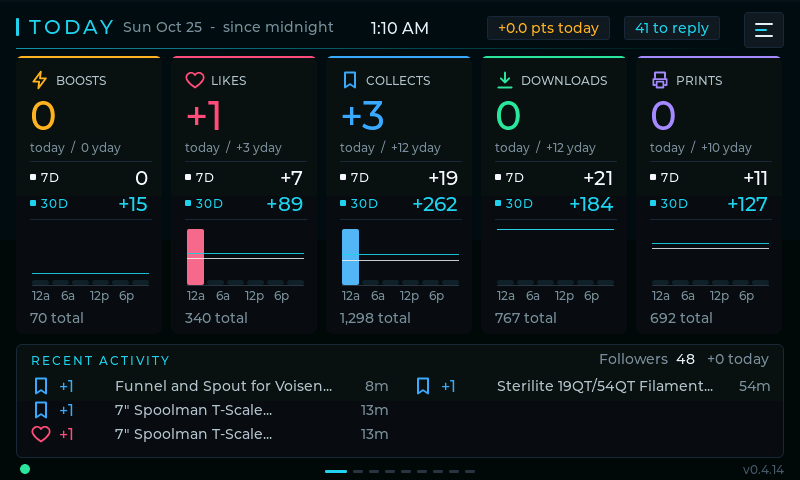
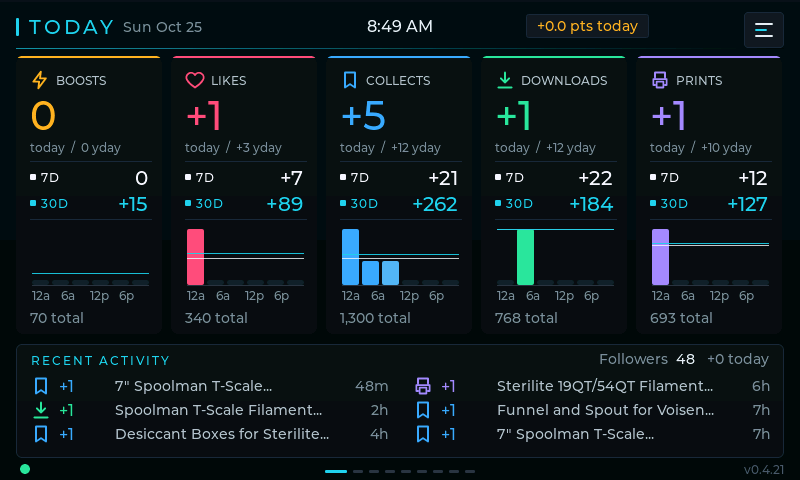
Color panel 0.4.21: simpler Today header, complete screenshots
- Today header: just the date on the left (when the day began is on the
  Status page), the clock centred, and the points chip centred between
  the clock and the hamburger, all on the title's centre line. The
  replies chip is gone; unanswered comments are on Creator > Reply.
- /screenshot.png waits for the socket to drain instead of stopping on
  the first full send buffer, so images are no longer cut short.

diff --git a/firmware-color/src/ui.cpp b/firmware-color/src/ui.cpp
@@ -478,8 +478,8 @@ struct Tile {
 };
 static Tile tiles[NSTAT];
 static Header todayHdr;
-static lv_obj_t *ptsChip, *replyChip, *syncDot, *syncLbl, *clockLbl;
-static void openCreatorReply(lv_event_t*);  // Creator page, Reply view
+static lv_obj_t *ptsChip, *syncDot, *syncLbl, *clockLbl;
+static bool ptsWant = false;
 static int TILE_W, TILE_STEP, BAR_BOTTOM, BAR_MAX, BAR_W, BAR_GAP, BAR_X;
 
 // On tall panels the chart stays short and the room under the tiles is a
@@ -501,16 +501,12 @@ static void syncDotCb(lv_event_t*) { openStatus(true); }
 static void buildToday() {
   lv_obj_t* s = screens[SC_TODAY] = newScreen();
   todayHdr = header(s, "TODAY", "waiting for poller");
-  ptsChip = label(todayHdr.right, F14, C_WARN, 0, 0, "");
+  // Placed by layoutTodayChips(), not in the header row.
+  ptsChip = label(s, F14, C_WARN, 0, 0, "");
   chipStyle(ptsChip, C_CHIP, C_WARN);
   // Tap: the Points page, sliding like a swipe. 48 px tall target.
   tappable(ptsChip, [](lv_event_t*) { goScreen(SC_POINTS, SC_POINTS > cur ? 1 : -1); }, 0);
   lv_obj_set_ext_click_area(ptsChip, max(6, (48 - lineH(F14) - 6) / 2));
-  // Unanswered comments (creator stats); tap for the list.
-  replyChip = label(todayHdr.right, F14, C_ACCENT, 0, 0, "");
-  chipStyle(replyChip, C_CHIP, C_ACCENT);
-  tappable(replyChip, openCreatorReply, 0);
-  show(replyChip, false);
   // Sync state is just the dot (green ok / amber cookie / red error), in the
   // footer at the bottom left on every page; tapping it opens Status. The text
   // label is kept hidden for the knob-free layout code.
@@ -526,10 +522,13 @@ static void buildToday() {
   lv_obj_add_event_cb(sync, syncDotCb, LV_EVENT_CLICKED, nullptr);
 #endif
   // Clock centred on the full width, independent of the left and right items.
+  // Same centre line as the title (the header's right-hand row is empty
+  // now; the chips are placed by layoutTodayChips()).
   clockLbl = label(s, F16, C_TXT, 0, 0, "--:--");
   lv_obj_update_layout(s);
-  lv_obj_align(clockLbl, LV_ALIGN_TOP_MID, 0,
-               lv_obj_get_y(todayHdr.right) + (lv_obj_get_height(todayHdr.right) - lineH(F16)) / 2);
+  lv_area_t ttl;
+  lv_obj_get_coords(todayHdr.title, &ttl);
+  lv_obj_align(clockLbl, LV_ALIGN_TOP_MID, 0, (ttl.y1 + ttl.y2) / 2 - lineH(F16) / 2);
   // Keep the subtitle left of the clock ("waiting for poller - host" is long).
   const int clockHalf = lv_txt_get_width("12:00 PM", 8, F16, 0, LV_TEXT_FLAG_NONE) / 2 + 14;
   lv_obj_update_layout(s);
@@ -711,6 +710,24 @@ static void refreshActivity() {
   show(actEmpty, shown == 0);
 }
 
+// Today header: date left, clock centred, hamburger right; the points chip
+// sits centred in the gap between the clock and the hamburger, measured from
+// the real widths, on the title's centre line. If it doesn't fit, it hides.
+static void layoutTodayChips() {
+  if (!clockLbl) return;
+  const int m = COMPACT ? 4 : 8;
+  show(ptsChip, true);
+  lv_obj_update_layout(screens[SC_TODAY]);
+  lv_area_t clk, ttl;
+  lv_obj_get_coords(clockLbl, &clk);
+  lv_obj_get_coords(todayHdr.title, &ttl);
+  const int cy = (ttl.y1 + ttl.y2) / 2;
+  const int x1 = clk.x2 + 1, x2 = W - PAD - HB_W - 1, w = lv_obj_get_width(ptsChip);
+  bool fits = ptsWant && w + 2 * m <= x2 - x1;
+  show(ptsChip, fits);
+  if (fits) lv_obj_set_pos(ptsChip, (x1 + x2 - w) / 2, cy - lv_obj_get_height(ptsChip) / 2);
+}
+
 static void refreshToday() {
   char a[32], b[48];
   int hourNow = -1;
@@ -789,10 +806,8 @@ static void refreshToday() {
   }
   snprintf(a, sizeof(a), COMPACT ? "%+.1f pts" : "%+.1f pts today", lag ? 0.0f : st.todayPoints);
   lv_label_set_text(ptsChip, a);
-  show(ptsChip, st.valid && st.cookieAge >= 0);
-  snprintf(a, sizeof(a), COMPACT ? "%d to reply" : "%d to reply", st.creator.unans);
-  lv_label_set_text(replyChip, a);
-  show(replyChip, st.valid && st.creator.has && st.creator.unans > 0);
+  ptsWant = st.valid && st.cookieAge >= 0;
+  layoutTodayChips();
   refreshActivity();
 }
 static void setTextIfChanged(lv_obj_t* l, const char* txt) {
@@ -809,26 +824,23 @@ static void refreshTodayHeader() {
     setTextIfChanged(todayHdr.sub, "Wi-Fi setup: join " BOARD_AP);
   } else if (!st.valid) {
     snprintf(a, sizeof(a), "waiting for poller  -  %s.local", g_net.host[0] ? g_net.host : "offline");
-    // No Recent activity card on shorter panels: followers go in the subtitle.
-    if (!TALL && st.fol.has) {
-      size_t o = strlen(a);
-      snprintf(a + o, sizeof(a) - o, "  -  %d followers (%+d)", st.fol.total, st.fol.today);
-    }
     setTextIfChanged(todayHdr.sub, a);
   } else {
     time_t lt = toLocal(n ? n : st.t);
     struct tm tmv;
     gmtime_r(&lt, &tmv);
     static const char* const WD[] = {"Sun", "Mon", "Tue", "Wed", "Thu", "Fri", "Sat"};
-    if (COMPACT) {
-      snprintf(a, sizeof(a), "%s %s %d", WD[tmv.tm_wday], MONTHS[tmv.tm_mon], tmv.tm_mday);
-    } else if (st.midnight || payloadLagDays()) {
-      snprintf(a, sizeof(a), "%s %s %d  -  since midnight", WD[tmv.tm_wday], MONTHS[tmv.tm_mon], tmv.tm_mday);
-    } else {
-      fmtHM(b, sizeof(b), st.since);
-      snprintf(a, sizeof(a), "%s %s %d  -  since %s", WD[tmv.tm_wday], MONTHS[tmv.tm_mon], tmv.tm_mday, b);
-    }
+    // Just the date; when the day's baseline began is on the Status page.
+    snprintf(a, sizeof(a), "%s %s %d", WD[tmv.tm_wday], MONTHS[tmv.tm_mon], tmv.tm_mday);
     setTextIfChanged(todayHdr.sub, a);
+  }
+  // Re-centre the chips when the date or clock text changed width.
+  static char lastHdr[96] = "";
+  char now[96];
+  snprintf(now, sizeof(now), "%s|%s", lv_label_get_text(todayHdr.sub), lv_label_get_text(clockLbl));
+  if (strcmp(now, lastHdr)) {
+    strlcpy(lastHdr, now, sizeof(lastHdr));
+    layoutTodayChips();
   }
   uint32_t dot = C_IDLE;
   if (st.valid) {
@@ -1997,13 +2009,6 @@ static void refreshCreator() {
   for (int i = 0; i < CR_TILES; i++) crTileDef[i] = DEF[crView][i];
   crSetTiles(n, v, l, col);
   setTextIfChanged(crNote, note);
-}
-
-static void openCreatorReply(lv_event_t*) {
-  crView = CV_REPLY;
-  refreshCreator();
-  markPagesDirty();
-  goScreen(SC_CREATOR, SC_CREATOR > cur ? 1 : -1);
 }
 
 enum { ST_POLLER, ST_COOKIE, ST_NEXT, ST_BASE, ST_NET, ST_DEVICE, NSTATUS };

diff --git a/firmware-color/src/main.cpp b/firmware-color/src/main.cpp
@@ -868,11 +868,18 @@ static void handleScreenshot() {
   server.sendHeader("Cache-Control", "no-store");
   server.setContentLength(png.len);
   server.send(200, "image/png", "");
+  // write() returns 0 while the socket's send buffer is full; wait for it
+  // to drain (up to 3 s of no progress) rather than cut the image short.
   WiFiClient c = server.client();
-  for (size_t o = 0; o < png.len && c.connected();) {
+  uint32_t lastProgress = millis();
+  for (size_t o = 0; o < png.len && c.connected() && millis() - lastProgress < 3000;) {
     size_t n = c.write(png.data + o, min<size_t>(png.len - o, 4096));
-    if (!n) break;
-    o += n;
+    if (n) {
+      o += n;
+      lastProgress = millis();
+    } else {
+      delay(5);
+    }
   }
   heap_caps_free(png.data);
   deviceLogf("Screenshot sent (%u KB)", (unsigned)(png.len / 1024));

diff --git a/firmware-color/include/fw_version.h b/firmware-color/include/fw_version.h
@@ -1,4 +1,4 @@
 #pragma once
 // Firmware version, shown on the Status screen and bottom right, and reported
 // to the poller. Bump the patch number before every flash (USB or OTA).
-#define FW_VERSION "0.4.17"
+#define FW_VERSION "0.4.21"

diff --git a/firmware-color/README.md b/firmware-color/README.md
@@ -99,14 +99,13 @@ Empty background does nothing when tapped. The first touch or knob input on a di
 
 Today, Live feed, Top models, 7-day trend, Points, Reach (30 days), Comments, **Best times**, **Creator**, and (from the menu) Status, Settings, About and Update. Page segments at the bottom show where you are.
 
-- **Today header:** the title and date on the left, the 12-hour clock centred, and on the right the points chip (tap: Points page) and the "N to reply" badge.
+- **Today header:** the title and date on the left, the 12-hour clock centred and the hamburger on the right. The points chip (tap: Points page) sits centred between the clock and the hamburger, placed from its real width, on the title's centre line; where that gap is too narrow it hides. Unanswered comments are on the Creator page's Reply tab.
 - **Footer** (every page, on the line of the page segments): a **status dot** at the bottom left (green = synced, amber = cookie needed or MakerWorld data stale, red = cookie expired or an error; tap for Status) and the firmware version at the bottom right, which becomes an update chip when a newer release is known.
-- **Followers:** the Today page shows the follower count and today's gain (top right of Recent activity on 800×480, in the subtitle on smaller panels); the Creator page has a Followers tab.
+- **Followers:** on 800×480 the Today page shows the follower count and today's gain at the top right of Recent activity; every panel has the Creator page's Followers tab.
 - **Today (800×480):** each tile has today's number, yesterday, **7D** (white) and **30D** (cyan) totals, an hourly chart in 2-hour bars with white 7-day and cyan 30-day average lines, and the lifetime total; a **Recent activity** card below lists the newest events.
 - **Best times:** activity by hour of day (24 bars) and by weekday over the last 30 days, for downloads, prints or boosts, with the best hour and day highlighted. Shows "Collecting data (N of 7 days)" until a week of history exists.
 - **Model detail:** from Top models. 7- and 30-day totals per stat and daily download bars, fetched from the poller when opened. With creator stats, a second line adds downloads per view, prints per download, engagement per 100 downloads, yesterday against the 7-day average (rising / stalled), points and followers for 7 and 30 days, and unanswered comments.
 - **Creator:** the poller's creator stats in six views. A row of summary tiles sits under the header and the views are a segmented control (its own row on 480×272). Tap a segment, swipe up/down, or press the knob: **Convert** (downloads per view and engagement per 100 downloads, top 4 each, plus account numbers), **Trend** (rising and stalled models: yesterday against each model's own 7-day average), **Launch** (the latest launch's cumulative downloads on days 1–7 against the median launch, with its percentile, plus the long-tail share: downloads from models over 30 days old today, 7 and 30 days), **Earn** (points over the same periods: Account 7d (with its trend) and 30d, which is the whole balance change including profile points and spending, and Models 7d and 30d, what MakerWorld credits to models with analytics so far; points and followers per model), **Followers** (total, today, 7 and 30 days, a bar per day for 30 days with losses in red, and the models followers came from), **Reply** (the models with the most unanswered comments and the total). A caption at the bottom says "Analytics for N of M models" while the poller backfills MakerWorld analytics (one model about every 10 minutes); an empty list says so in its card. Tap a list row for that model's detail page, or a tile for a one-line definition. Model names arrive with up to 60 characters and are cut with "..." only where they don't fit.
-- **Today badge:** "N to reply" in the Today header when there are unanswered comments; tap it for the Creator page's Reply view.
 - **Status:** poller sync with the age of each MakerWorld source (models, reach, points), cookie, next poll, day baseline, network (`<name>.local`, SSID, signal) and device/firmware.
 - **Health banner:** "Cookie expired - refresh it in the extension" (red) or "MakerWorld data stale since 9:05 PM" (amber), from the poller's health block; tap it for Status. "Wi-Fi not connected" takes priority and opens the Wi-Fi page.
 
@@ -131,7 +130,7 @@ Saved on the panel: brightness, auto-cycle, which events notify, quiet hours, **
 
 ## How "today" works
 
-MakerWorld only gives lifetime totals. At the first poll of each day the poller keeps the last pre-midnight snapshot as the baseline; today = now − baseline. If the poller wasn't running at midnight, the header says "since 9:05 PM" (the time it started) instead of "since midnight". The poller stores this in `poller/data/daily.json`, with daily totals, per-day hourly buckets (for best times) and per-model daily baselines (for model detail), so reboots of either side lose nothing.
+MakerWorld only gives lifetime totals. At the first poll of each day the poller keeps the last pre-midnight snapshot as the baseline; today = now − baseline. If the poller wasn't running at midnight, the day starts when it did; the Status page's Day base row shows which ("since midnight" or the start time). The poller stores this in `poller/data/daily.json`, with daily totals, per-day hourly buckets (for best times) and per-model daily baselines (for model detail), so reboots of either side lose nothing.
 
 ## Memory and diagnostics
 
